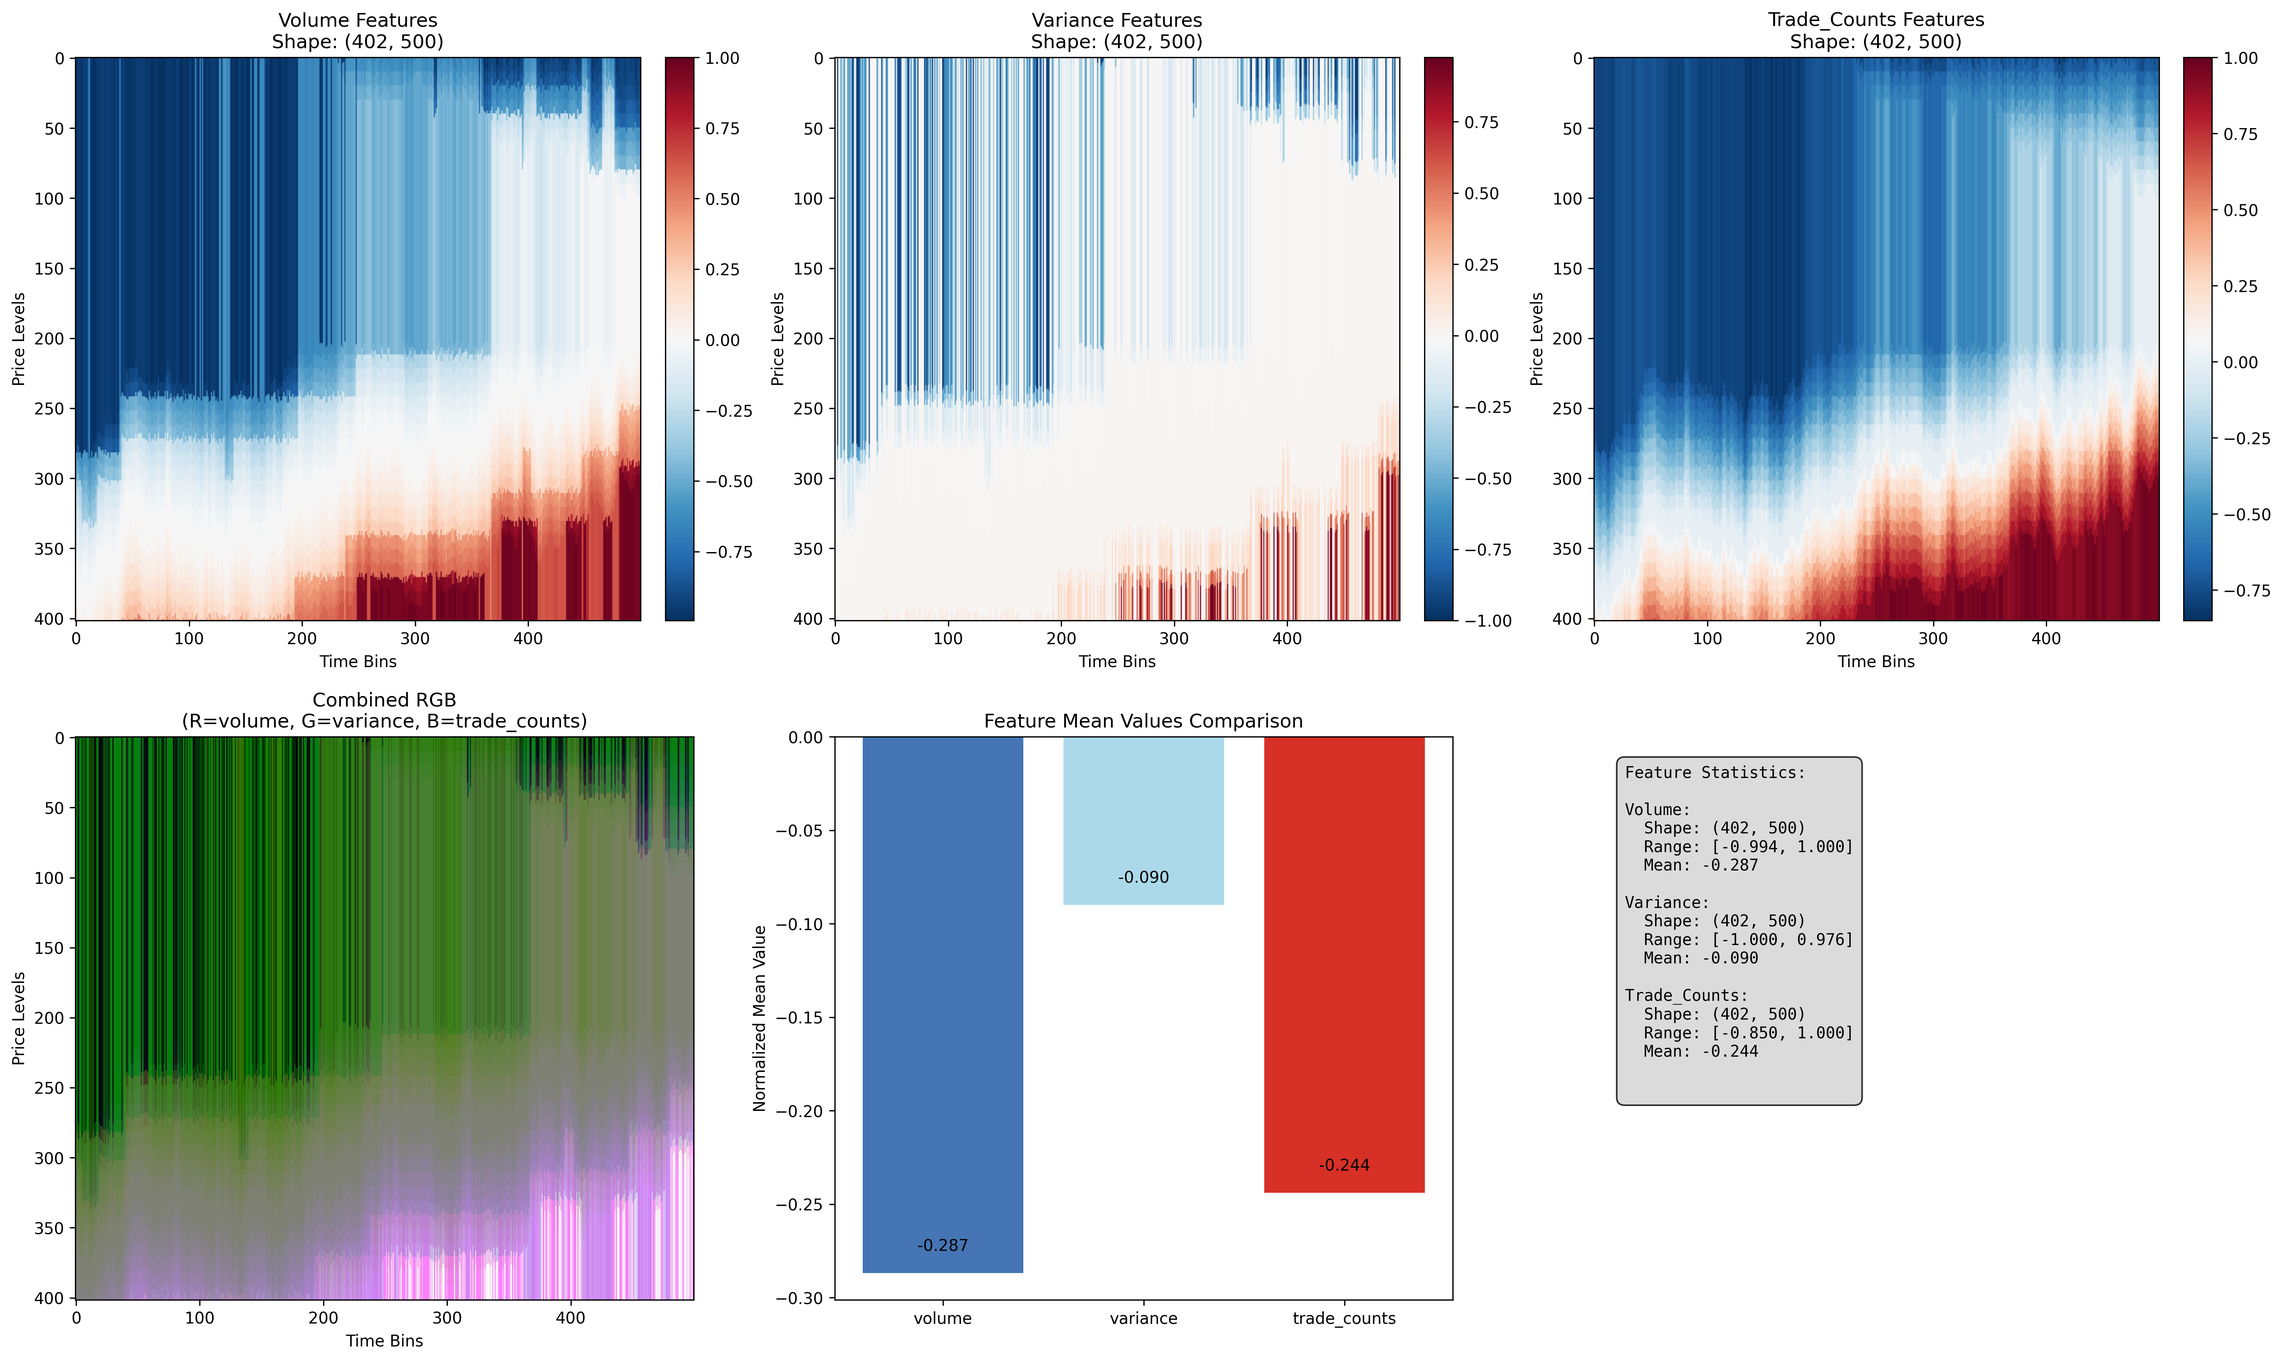
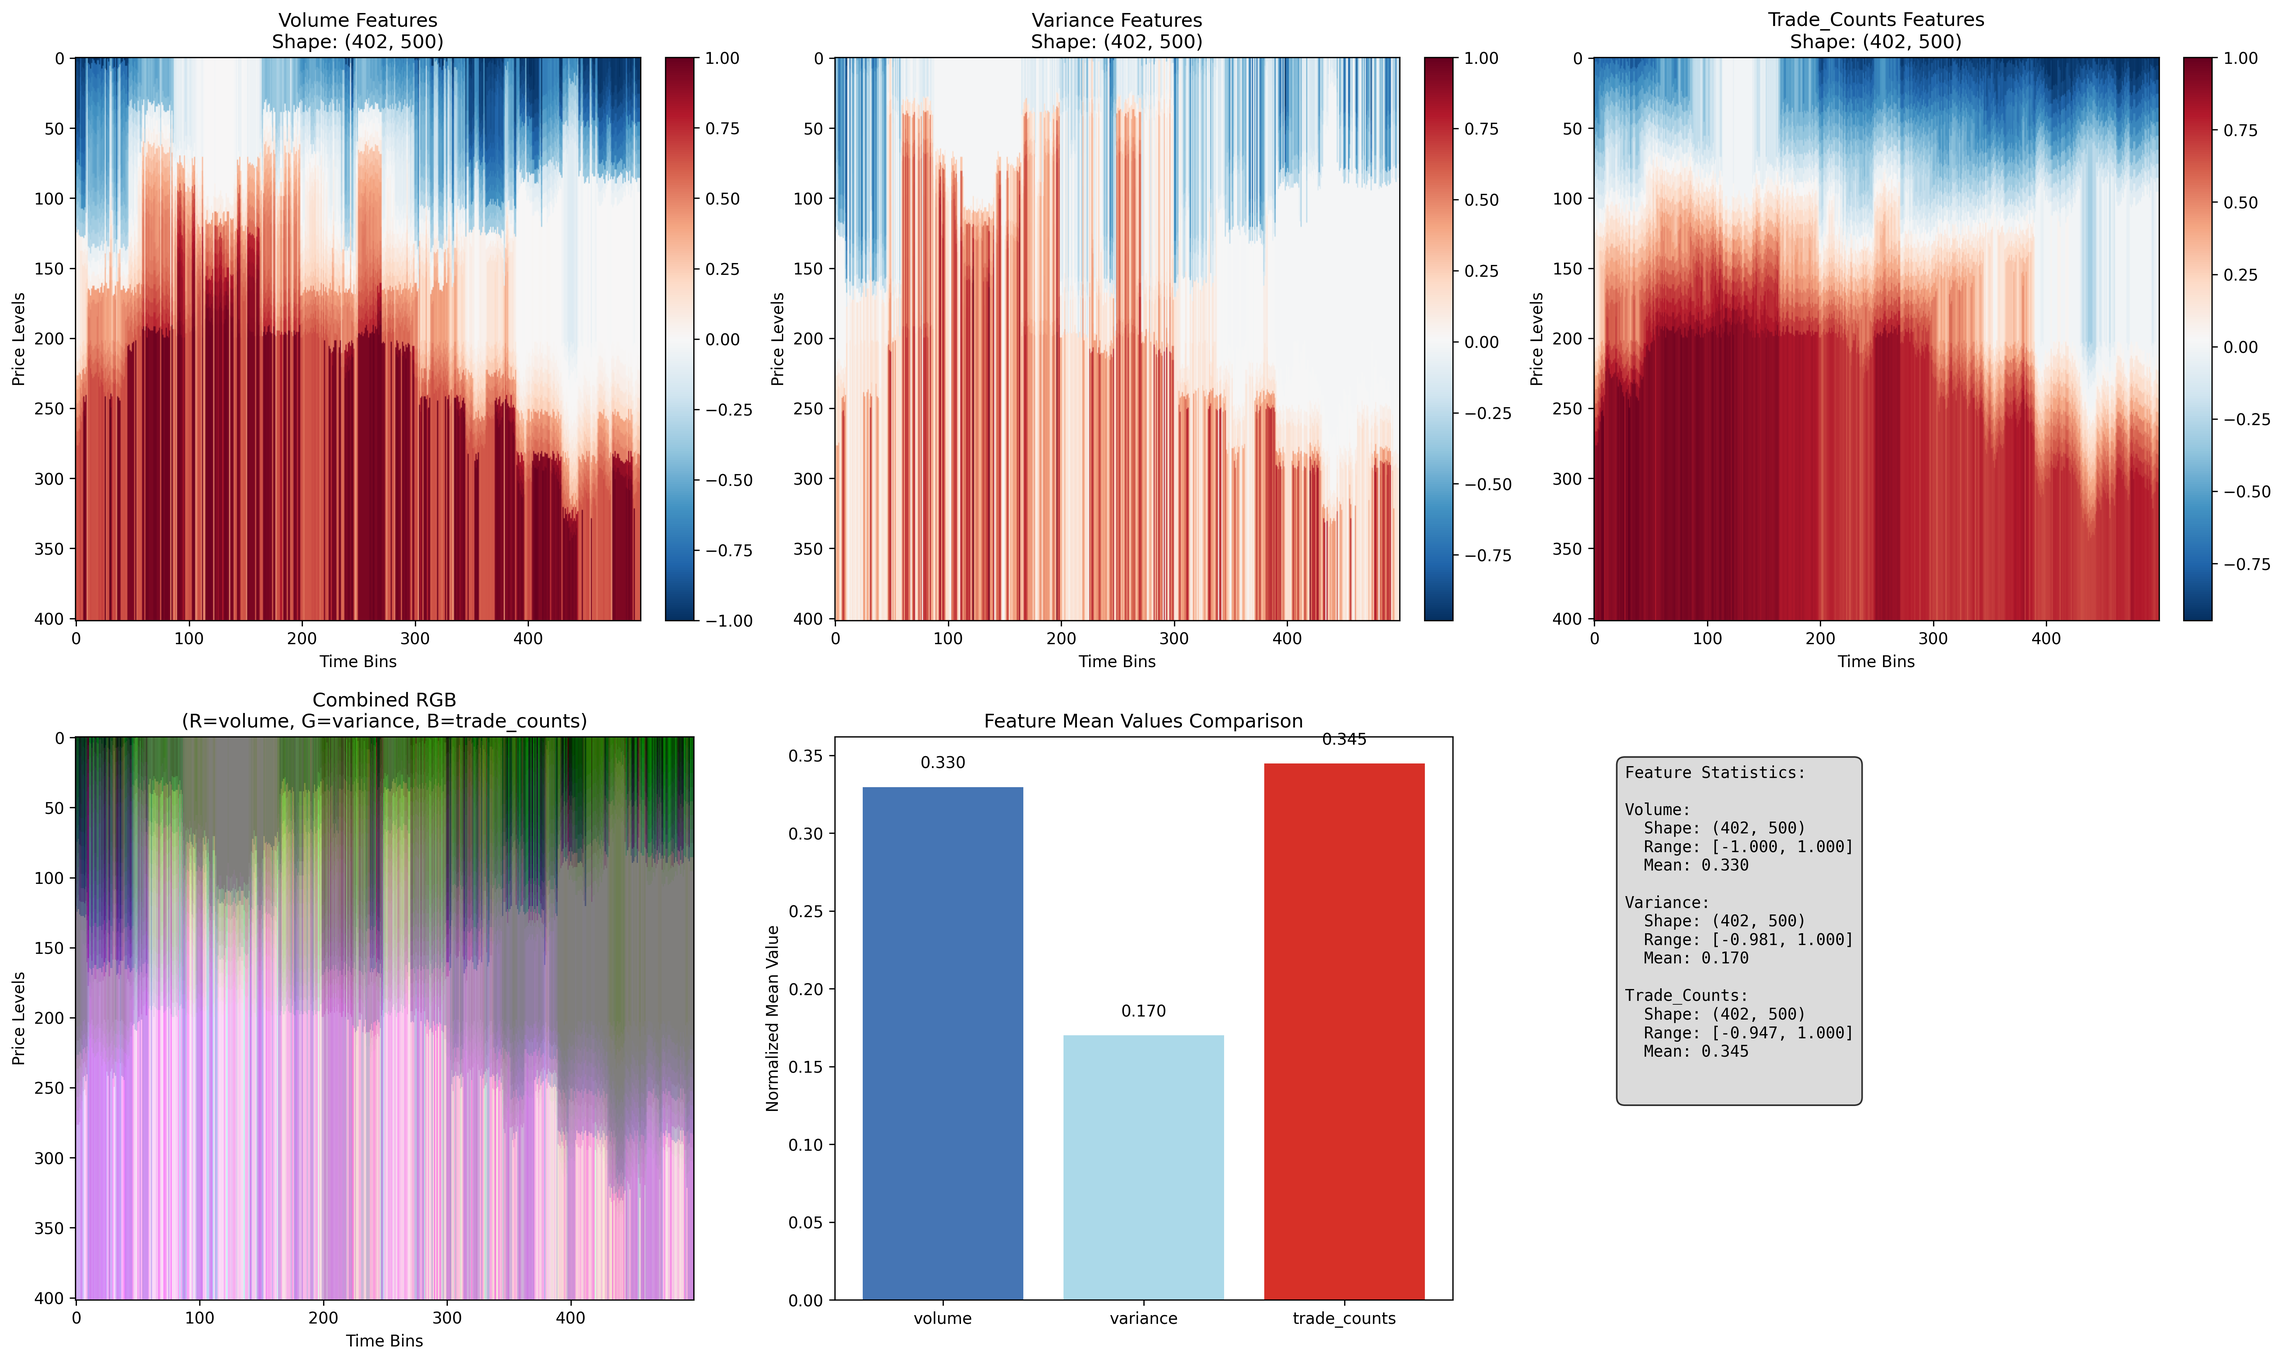
feat(constants): jump constant rejig

diff --git a/examples/comprehensive_demo_output/comprehensive_demo_report.html b/examples/comprehensive_demo_output/comprehensive_demo_report.html
@@ -190,22 +190,22 @@
                     <div class="feature-card">
                         <h3>Volume Features</h3>
                         <p><strong>Shape:</strong> (402, 500)</p>
-                        <p><strong>Range:</strong> [-0.994, 1.000]</p>
-                        <p><strong>Mean:</strong> -0.287</p>
+                        <p><strong>Range:</strong> [-1.000, 1.000]</p>
+                        <p><strong>Mean:</strong> 0.330</p>
                     </div>
 
                     <div class="feature-card">
                         <h3>Variance Features</h3>
                         <p><strong>Shape:</strong> (402, 500)</p>
-                        <p><strong>Range:</strong> [-1.000, 0.976]</p>
-                        <p><strong>Mean:</strong> -0.090</p>
+                        <p><strong>Range:</strong> [-0.981, 1.000]</p>
+                        <p><strong>Mean:</strong> 0.170</p>
                     </div>
 
                     <div class="feature-card">
                         <h3>Trade_Counts Features</h3>
                         <p><strong>Shape:</strong> (402, 500)</p>
-                        <p><strong>Range:</strong> [-0.850, 1.000]</p>
-                        <p><strong>Mean:</strong> -0.244</p>
+                        <p><strong>Range:</strong> [-0.947, 1.000]</p>
+                        <p><strong>Mean:</strong> 0.345</p>
                     </div>
 
                 </div>
@@ -235,8 +235,8 @@ features = processor.extract_features(
 )
 
 # Output shapes:
-# Single feature: (402, 500)
-# Multi-feature: (3, 402, 500)
+# Single feature: (PRICE_LEVELS, TIME_BINS)
+# Multi-feature: (3, PRICE_LEVELS, TIME_BINS)
                 </div>
             </div>
 
@@ -260,7 +260,7 @@ features = processor.extract_features(
                         <p>Without Force Uniform Samples</p>
                     </div>
                     <div class="stat-card">
-                        <h4>1.83%</h4>
+                        <h4>2.11%</h4>
                         <p>Std Deviation</p>
                     </div>
 
@@ -291,8 +291,8 @@ features = processor.extract_features(
                         <tr>
                             <td><strong>Without Force Uniform</strong></td>
                             <td>3,298</td>
-                            <td>1.83%</td>
-                            <td class="performance-good">EXCELLENT</td>
+                            <td>2.11%</td>
+                            <td class="performance-warning">GOOD</td>
                         </tr>
 
                     </tbody>
@@ -330,36 +330,36 @@ features = processor.extract_features(
                             <td><strong>Small Batch</strong></td>
                             <td>16</td>
                             <td>2</td>
-                            <td class="performance-good">33879 sps</td>
+                            <td class="performance-good">38601 sps</td>
                             <td class="performance-good">8 MB</td>
-                            <td>33879.2</td>
+                            <td>38601.1</td>
                         </tr>
 
                         <tr>
                             <td><strong>Medium Batch</strong></td>
                             <td>32</td>
                             <td>4</td>
-                            <td class="performance-good">80454 sps</td>
+                            <td class="performance-good">80545 sps</td>
                             <td class="performance-good">16 MB</td>
-                            <td>80454.2</td>
+                            <td>80545.4</td>
                         </tr>
 
                         <tr>
                             <td><strong>Large Batch</strong></td>
                             <td>64</td>
                             <td>6</td>
-                            <td class="performance-good">150274 sps</td>
+                            <td class="performance-good">147385 sps</td>
                             <td class="performance-good">32 MB</td>
-                            <td>150274.2</td>
+                            <td>147384.8</td>
                         </tr>
 
                         <tr>
                             <td><strong>XL Batch</strong></td>
                             <td>128</td>
                             <td>8</td>
-                            <td class="performance-good">156032 sps</td>
+                            <td class="performance-good">202881 sps</td>
                             <td class="performance-good">64 MB</td>
-                            <td>156031.6</td>
+                            <td>202880.9</td>
                         </tr>
 
                     </tbody>

diff --git a/represent/parquet_classifier.py b/represent/parquet_classifier.py
@@ -14,17 +14,14 @@ Key Features:
 
 import time
 from pathlib import Path
-from typing import Dict, List, Optional, Union, Any, Tuple
+from typing import Dict, List, Optional, Union, Any, Tuple, cast
 import numpy as np
 import polars as pl
 import databento as db
 from dataclasses import dataclass
 
 from .config import create_represent_config
-from .constants import (
-    LOOKFORWARD_OFFSET, LOOKFORWARD_INPUT, LOOKBACK_ROWS, 
-    LOOKFORWARD_ROWS, INPUT_ROWS, JUMP_SIZE
-)
+# No longer need hardcoded constants - using RepresentConfig now
 from .global_threshold_calculator import GlobalThresholds
 
 
@@ -55,46 +52,52 @@ class ParquetClassifier:
         self,
         currency: str = "AUDUSD",
         features: Optional[List[str]] = None,
-        min_symbol_samples: int = 1000,
+        min_symbol_samples: Optional[int] = None,
         force_uniform: bool = True,
-        nbins: int = 13,
+        nbins: Optional[int] = None,
         global_thresholds: Optional[GlobalThresholds] = None,
         verbose: bool = True,
     ):
         
         """
-        Initialize streamlined classifier using lookback vs lookforward methodology.
+        Initialize streamlined classifier using RepresentConfig for standardized configuration.
 
         Args:
             currency: Currency pair for configuration
-            features: Features to extract (volume, variance, trade_counts)
-            min_symbol_samples: Minimum samples required per symbol
+            features: Features to extract (if None, uses config default)
+            min_symbol_samples: Minimum samples required per symbol (if None, uses config default)
             force_uniform: Whether to enforce uniform class distribution
-            nbins: Number of classification bins
+            nbins: Number of classification bins (if None, uses config default)
             global_thresholds: Pre-calculated global thresholds for consistent classification
             verbose: Whether to print progress information
         """
+        # Load RepresentConfig for this currency
+        self.represent_config = create_represent_config(currency)
+        
+        # Get computed values to avoid type checker issues
+        default_min_samples: int = cast(int, self.represent_config.min_symbol_samples)
+        
+        # Create ClassificationConfig with config values as defaults
         self.config = ClassificationConfig(
             currency=currency,
-            features=features or ["volume"],
-            min_symbol_samples=min_symbol_samples,
+            features=features or self.represent_config.features,
+            min_symbol_samples=min_symbol_samples if min_symbol_samples is not None else default_min_samples,
             force_uniform=force_uniform,
-            nbins=nbins,
+            nbins=nbins if nbins is not None else self.represent_config.nbins,
             global_thresholds=global_thresholds,
         )
         
         self.verbose = verbose
-        self.represent_config = create_represent_config(currency)
         
         if self.verbose:
             print("🚀 ParquetClassifier initialized")
             print(f"   💱 Currency: {self.config.currency}")
             print(f"   📊 Features: {self.config.features}")
-            print(f"   📈 Lookback rows: {LOOKBACK_ROWS}")
-            print(f"   📉 Lookforward offset: {LOOKFORWARD_OFFSET}")
-            print(f"   📏 Lookforward window: {LOOKFORWARD_INPUT}")
-            print(f"   📏 Total lookforward: {LOOKFORWARD_ROWS}")
-            print(f"   📊 Input rows: {INPUT_ROWS}")
+            print(f"   📈 Lookback rows: {self.represent_config.lookback_rows}")
+            print(f"   📉 Lookforward offset: {self.represent_config.lookforward_offset}")
+            print(f"   📏 Lookforward window: {self.represent_config.lookforward_input}")
+            print(f"   📏 Total lookforward: {self.represent_config.lookforward_input + self.represent_config.lookforward_offset}")
+            print(f"   🔄 Jump size: {self.represent_config.jump_size}")
             print(f"   🎯 Min samples per symbol: {self.config.min_symbol_samples}")
             print(f"   ⚖  Force uniform: {self.config.force_uniform}")
             if self.config.global_thresholds:
@@ -146,7 +149,7 @@ class ParquetClassifier:
             print("🔍 Filtering symbols by threshold...")
         
         # Calculate minimum required samples using new methodology constants
-        min_required = INPUT_ROWS + LOOKBACK_ROWS + LOOKFORWARD_ROWS
+        min_required = self.represent_config.lookback_rows + self.represent_config.lookforward_input + self.represent_config.lookforward_offset
         
         # Count samples per symbol
         symbol_counts = df.group_by('symbol').len().sort('len', descending=True)
@@ -201,13 +204,13 @@ class ParquetClassifier:
         
         # Calculate price movements using correct lookback vs lookforward methodology
         # Use JUMP_SIZE sampling for performance and to avoid overly similar adjacent values
-        for stop_row in range(LOOKBACK_ROWS, len(mid_prices) - LOOKFORWARD_ROWS, JUMP_SIZE):
+        for stop_row in range(self.represent_config.lookback_rows, len(mid_prices) - (self.represent_config.lookforward_input + self.represent_config.lookforward_offset), self.represent_config.jump_size):
             # Define time windows according to the correct methodology
-            lookback_start = stop_row - LOOKBACK_ROWS
+            lookback_start = stop_row - self.represent_config.lookback_rows
             lookback_end = stop_row
             
-            target_start_row = stop_row + 1 + LOOKFORWARD_OFFSET
-            target_stop_row = stop_row + LOOKFORWARD_ROWS
+            target_start_row = stop_row + 1 + self.represent_config.lookforward_offset
+            target_stop_row = stop_row + self.represent_config.lookforward_input
             
             # Calculate lookback mean (historical average)
             lookback_mean = np.mean(mid_prices[lookback_start:lookback_end])
@@ -449,11 +452,10 @@ class ParquetClassifier:
             'config': {
                 'currency': self.config.currency,
                 'features': self.config.features,
-                'lookback_rows': LOOKBACK_ROWS,
-                'lookforward_offset': LOOKFORWARD_OFFSET,
-                'lookforward_input': LOOKFORWARD_INPUT,
-                'lookforward_rows': LOOKFORWARD_ROWS,
-                'input_rows': INPUT_ROWS,
+                'lookback_rows': self.represent_config.lookback_rows,
+                'lookforward_offset': self.represent_config.lookforward_offset,
+                'lookforward_input': self.represent_config.lookforward_input,
+                'jump_size': self.represent_config.jump_size,
                 'min_symbol_samples': self.config.min_symbol_samples,
                 'force_uniform': self.config.force_uniform,
                 'nbins': self.config.nbins,

diff --git a/represent/global_threshold_calculator.py b/represent/global_threshold_calculator.py
@@ -14,7 +14,7 @@ import databento as db
 from dataclasses import dataclass
 
 from .config import create_represent_config
-from .constants import JUMP_SIZE
+# JUMP_SIZE now comes from RepresentConfig
 
 
 @dataclass
@@ -127,7 +127,7 @@ class GlobalThresholdCalculator:
             
             # Iterate through valid sample positions using JUMP_SIZE steps
             total_lookforward = self.config.lookforward_input + self.config.lookforward_offset
-            for stop_row in range(self.config.lookback_rows, len(mid_prices) - total_lookforward, JUMP_SIZE):
+            for stop_row in range(self.config.lookback_rows, len(mid_prices) - total_lookforward, self.config.jump_size):
                 # Define time windows according to the correct methodology
                 lookback_start = stop_row - self.config.lookback_rows
                 lookback_end = stop_row

diff --git a/represent/config.py b/represent/config.py
@@ -83,6 +83,11 @@ class RepresentConfig(BaseModel):
         gt=0, 
         description="Number of ticks per time bin"
     )
+    jump_size: int = Field(
+        default=100,
+        gt=0,
+        description="Step size for sampling positions in price movement calculation (performance optimization)"
+    )
     
     # Sampling configuration
     sampling_mode: str = Field(

diff --git a/examples/comprehensive_demo_output/comprehensive_demo_report.md b/examples/comprehensive_demo_output/comprehensive_demo_report.md
@@ -22,18 +22,18 @@ Demonstration of extracting and visualizing different market depth features with
 
 #### Volume Features
 - **Shape**: (402, 500)
-- **Range**: [-0.994, 1.000]
-- **Mean**: -0.287
+- **Range**: [-1.000, 1.000]
+- **Mean**: 0.330
 
 #### Variance Features
 - **Shape**: (402, 500)
-- **Range**: [-1.000, 0.976]
-- **Mean**: -0.090
+- **Range**: [-0.981, 1.000]
+- **Mean**: 0.170
 
 #### Trade_Counts Features
 - **Shape**: (402, 500)
-- **Range**: [-0.850, 1.000]
-- **Mean**: -0.244
+- **Range**: [-0.947, 1.000]
+- **Mean**: 0.345
 
 ### Key Features
 - **Volume Features**: Traditional market depth from order sizes
@@ -53,8 +53,8 @@ features = processor.extract_features(
 )
 
 # Output shapes:
-# Single feature: (402, 500)
-# Multi-feature: (3, 402, 500)
+# Single feature: (PRICE_LEVELS, TIME_BINS)
+# Multi-feature: (3, PRICE_LEVELS, TIME_BINS)
 ```
 
 ![Feature Extraction Visualization](feature_extraction_demo.png)
@@ -75,8 +75,8 @@ Comparison of classification distributions with and without force_uniform to dem
 
 #### Without Force Uniform
 - **Total Samples**: 3,298
-- **Std Deviation**: 1.83%
-- **Quality**: EXCELLENT
+- **Std Deviation**: 2.11%
+- **Quality**: GOOD
 
 ### Why Force Uniform Matters
 
@@ -97,10 +97,10 @@ Comprehensive benchmarking of DataLoader configurations to identify optimal sett
 
 | Configuration | Batch Size | Workers | Throughput (sps) | Memory (MB) | Efficiency |
 |---------------|------------|---------|------------------|-------------|------------|
-| Small Batch | 16 | 2 | 33879 | 8 | 33879.2 |
-| Medium Batch | 32 | 4 | 80454 | 16 | 80454.2 |
-| Large Batch | 64 | 6 | 150274 | 32 | 150274.2 |
-| XL Batch | 128 | 8 | 156032 | 64 | 156031.6 |
+| Small Batch | 16 | 2 | 38601 | 8 | 38601.1 |
+| Medium Batch | 32 | 4 | 80545 | 16 | 80545.4 |
+| Large Batch | 64 | 6 | 147385 | 32 | 147384.8 |
+| XL Batch | 128 | 8 | 202881 | 64 | 202880.9 |
 
 ### Performance Targets
 - **Throughput**: >1000 samples/second for real-time training
@@ -211,4 +211,4 @@ dataloader = create_parquet_dataloader(
 
 ---
 
-*Report generated on 2025-08-08 07:07:15*
+*Report generated on 2025-08-08 09:45:56*
